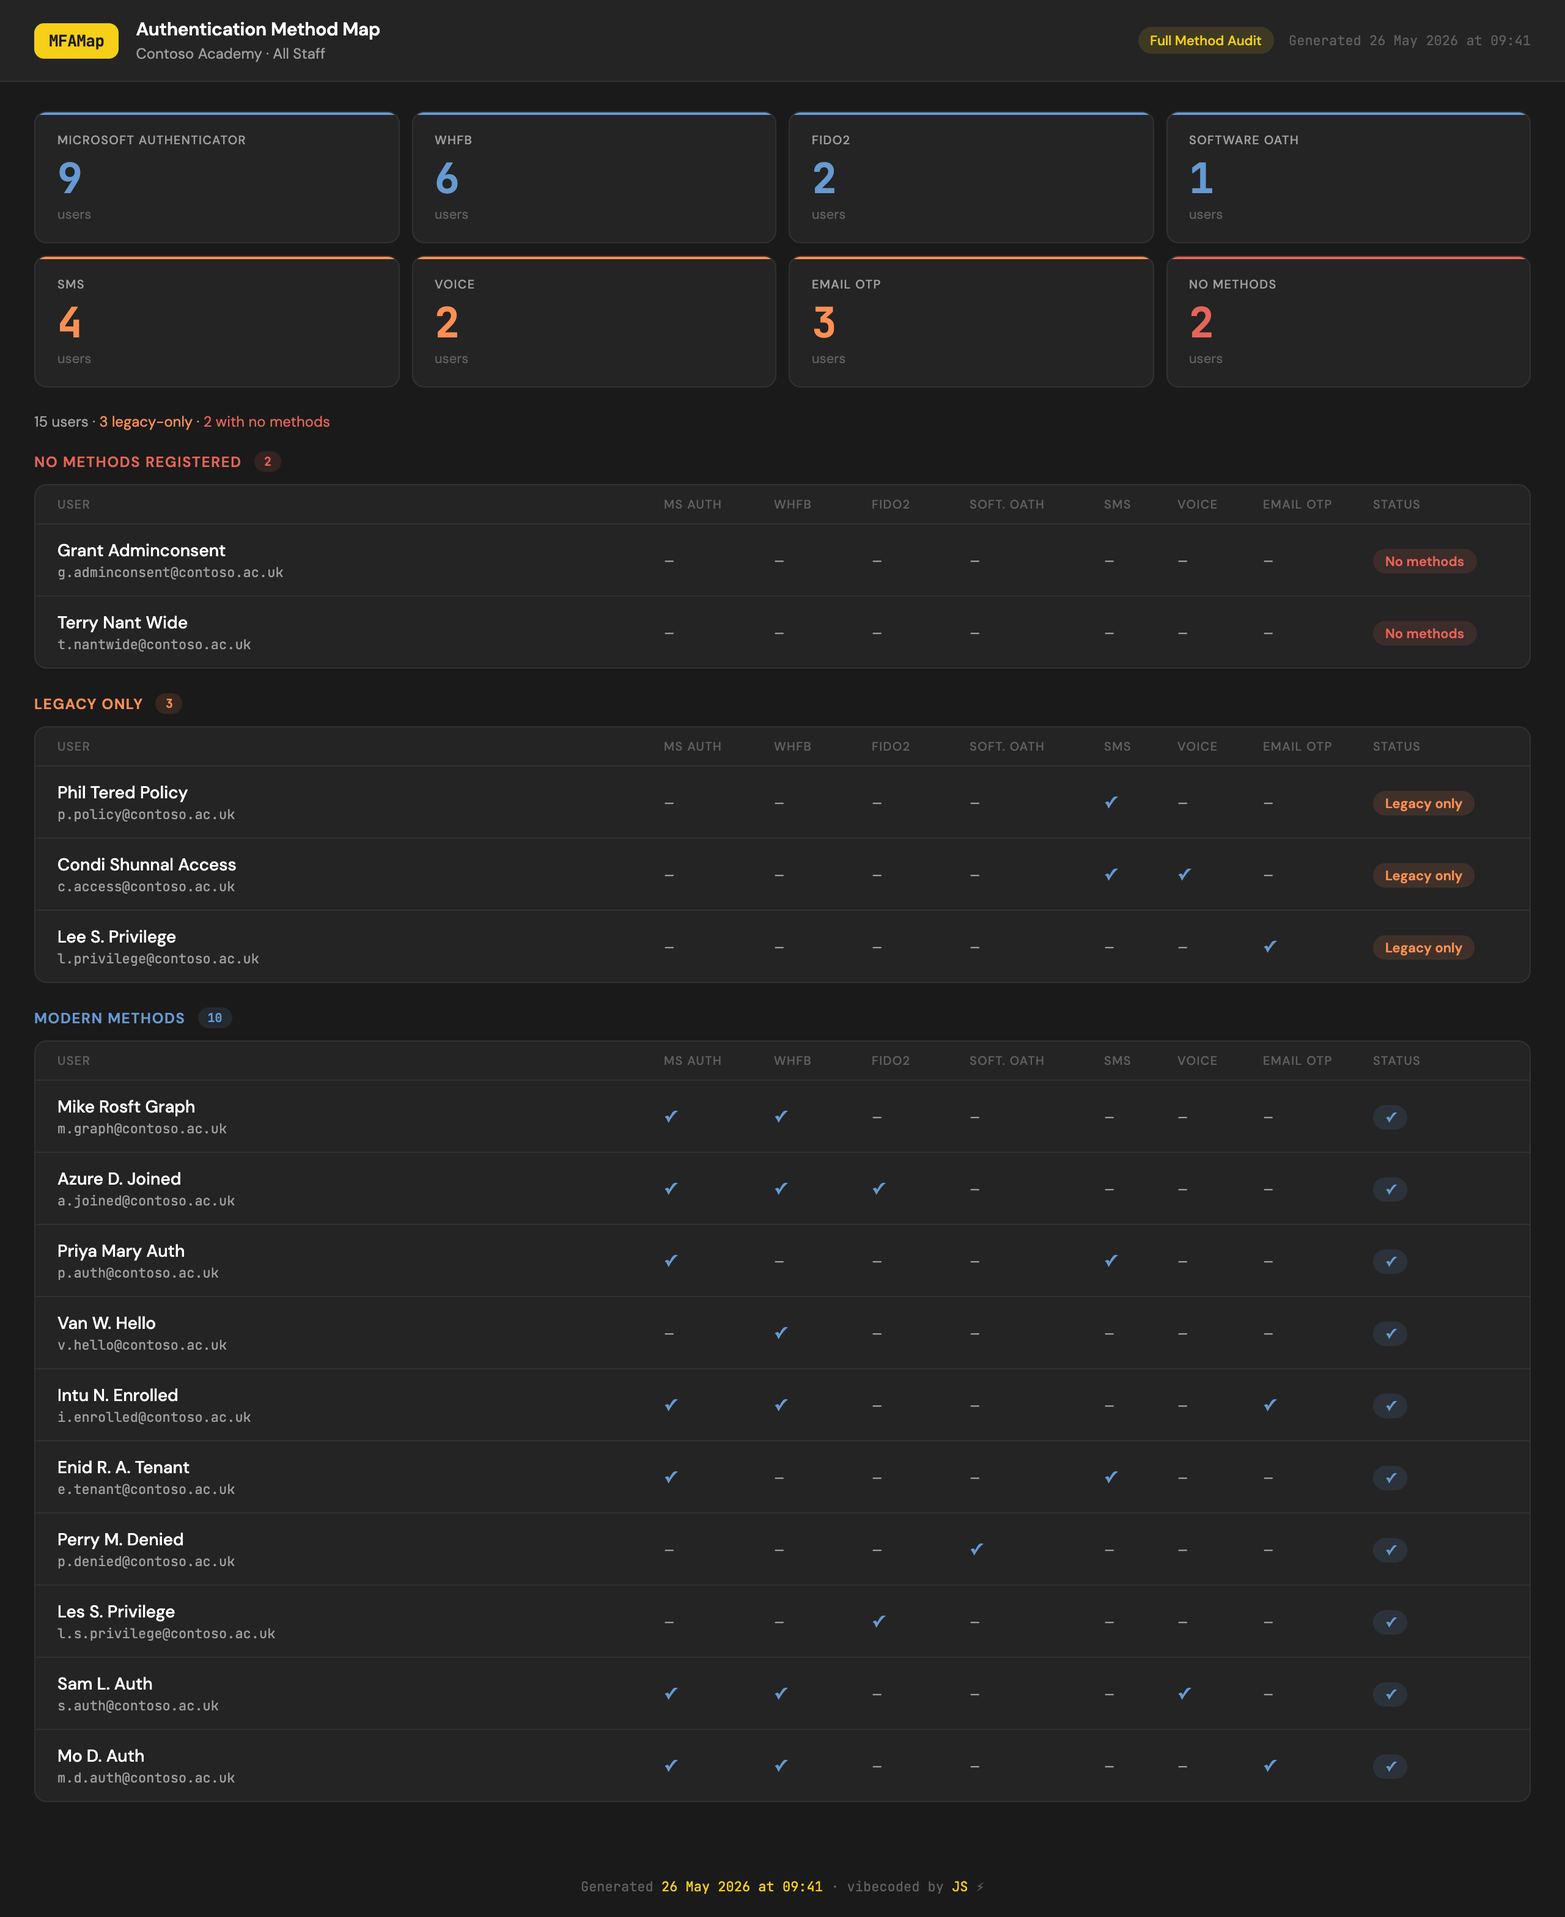
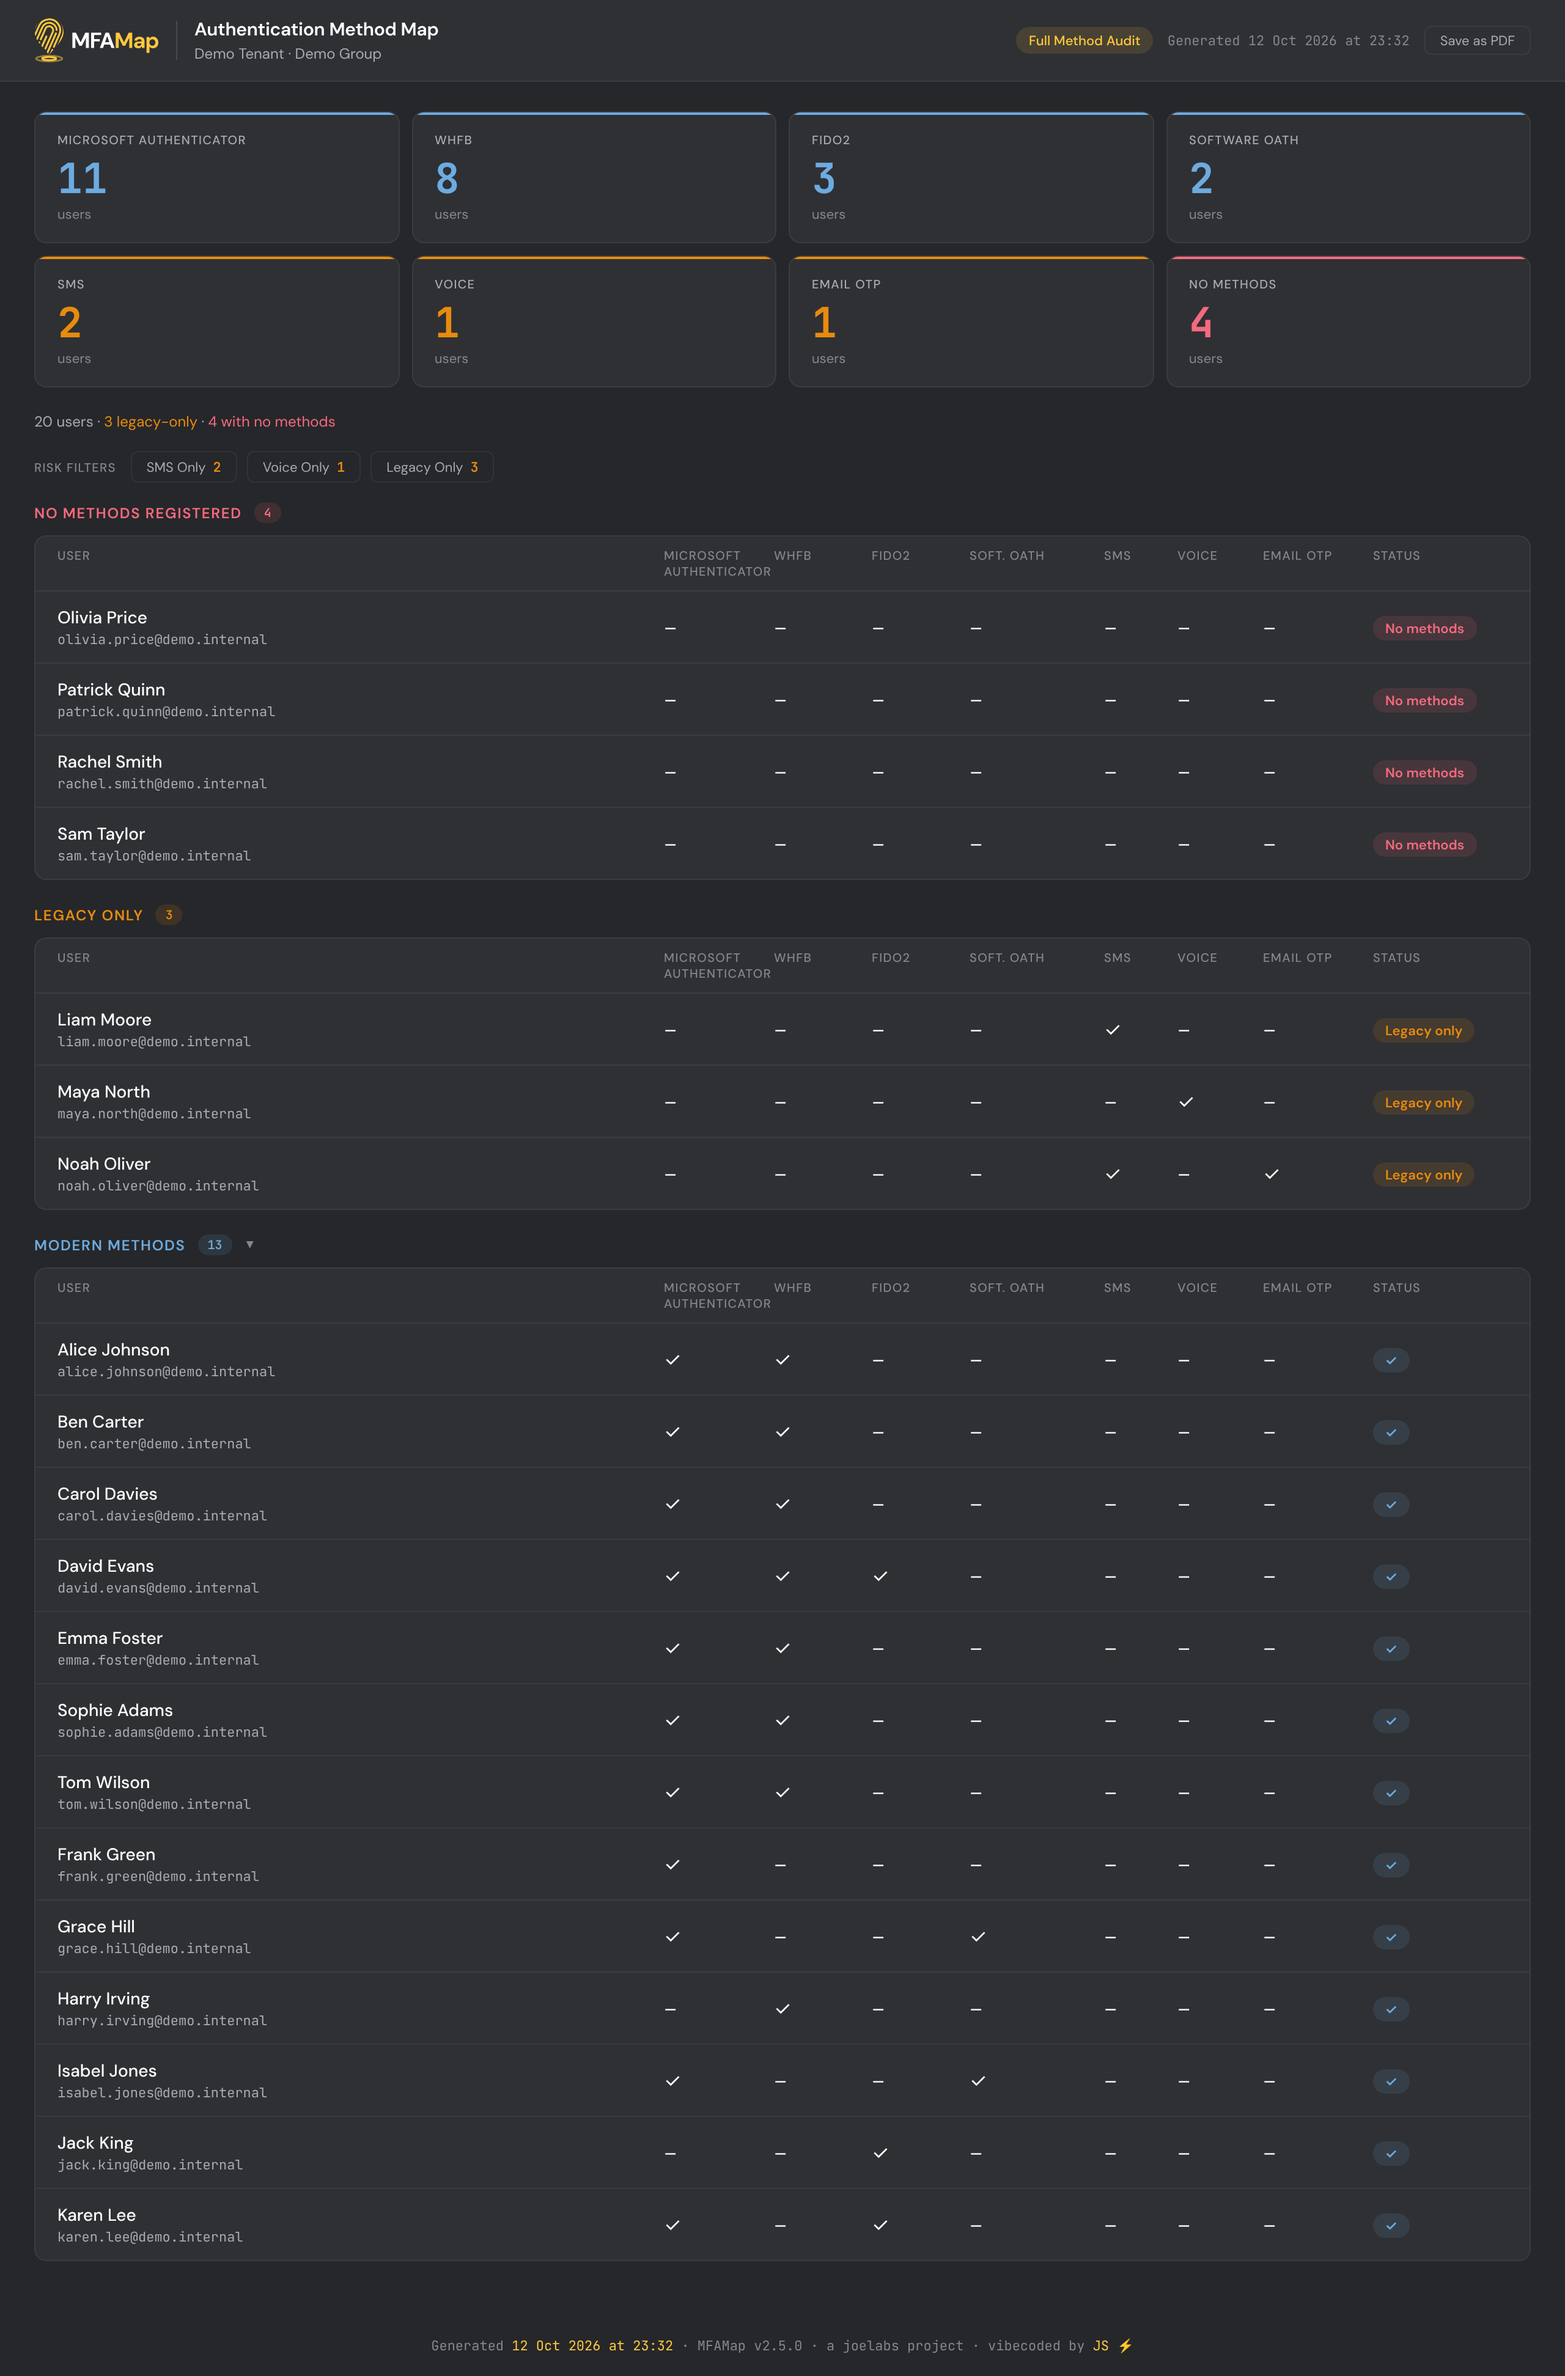
Rebrand MFAMap as a joelabs project (v2.5.0)
- Report and delta report use the joelabs palette (#26272A ground,
  #FFC83D accent) and the new MFAMap logo in the header
- Inline SVG favicon in both reports
- Footer: "MFAMap v2.5.0 · a joelabs project · vibecoded by JS"
- Coverage colour uses brand yellow; muted and dim text brightened
- Terminal splash in brand yellow on 24-bit colour terminals, with
  "a joelabs project" under the version
- README banner (dark/light), refreshed dashboard screenshot
- Brand assets and usage notes in assets/brand/
- CHANGELOG 2.5.0, CLAUDE.md brand notes

Claude-Session: https://claude.ai/code/session_01AezYoBgCPwqSqzULvStigX

Changed region(s): [[0.0, 0.0, 1.0, 1.0]]

diff --git a/assets/brand/README.md b/assets/brand/README.md
@@ -1,0 +1,37 @@
+# MFAMap brand
+
+MFAMap is a joelabs project. The logo is the joelabs fingerprint loop cut to a map pin, sending out a ping.
+
+| File | Use |
+|---|---|
+| `readme-banner-dark.png`, `readme-banner-light.png` | README header (picked by the reader's GitHub theme) |
+| `social-preview-1280x640.png` | GitHub repo social preview (Settings > General > Social preview) |
+| `mfamap-horizontal-dark.svg`, `mfamap-horizontal-light.svg` | Logo with "a joelabs project", for dark and light grounds |
+| `mfamap-icon.svg` | Icon on its grey tile |
+| `mfamap-icon-transparent.svg` | Yellow icon, transparent, for dark grounds only |
+| `header-logo.svg` | The report header logo (inlined in `code/MFAMap.ps1`) |
+| `favicon.svg` | The report's browser tab icon (inlined in `code/MFAMap.ps1`, base64) |
+
+## Colour
+
+| Token | Hex | Use |
+|---|---|---|
+| Brand grey | `#26272A` | Page ground |
+| Surface | `#2F3034` | Cards, tables, header |
+| Surface high | `#3A3B40` | Progress tracks, raised elements |
+| Brand yellow | `#FFC83D` | Logo, accents, coverage |
+| Text muted | `#A9AAB0` | Secondary text |
+| Text dim | `#85868D` | Labels, timestamps |
+| Enrolled | `#7CD591` | Complete, registered |
+| Partial | `#E88B0E` | Partial, legacy only |
+| Not registered | `#F56A7E` | Not registered, no methods, lapsed |
+| Modern | `#6DABDF` | Modern methods (full method audit) |
+
+Status colours always come with a label, and yellow is never a status.
+
+## Rules
+
+- On dark: yellow mark, "MFA" white, "Map" yellow. On light or yellow: everything in brand grey.
+- Never yellow on white or light grey (1.5:1, unreadable).
+- Use the compact logo (no "a joelabs project") under 64px tall, and put "a joelabs project" in the footer instead.
+- Don't redraw, recolour, stretch or add effects to the logo. The full brand guidelines live in the MFAMap brand pack.

diff --git a/README.md b/README.md
@@ -1,10 +1,15 @@
-# ⚡ MFAMap
+<h1>
+  <picture>
+    <source media="(prefers-color-scheme: dark)" srcset="assets/brand/readme-banner-dark.png">
+    <img src="assets/brand/readme-banner-light.png" alt="MFAMap, a joelabs project" width="880">
+  </picture>
+</h1>
 
 **Authentication method mapper for Microsoft Entra ID**
 
 MFAMap generates a self-contained HTML dashboard showing authentication method registration across a target Entra group. Run the script, pick a mode, save the file. Open it in any browser, share it with anyone — no server, no login, no dependencies.
 
-<img src="images/dashboard.png" alt="MFAMap dashboard preview" width="600">
+<img src="images/dashboard.png" alt="MFAMap full method audit report (demo data)" width="600">
 
 ---
 
@@ -183,5 +188,7 @@ All read-only. MFAMap cannot make any changes.
 ---
 
 ## 👏 Credits
+
+MFAMap is a joelabs project. Logo, colours and usage rules are in [`assets/brand`](assets/brand/README.md).
 
 vibecoded by JS ⚡

diff --git a/CHANGELOG.md b/CHANGELOG.md
@@ -2,6 +2,14 @@
 
 ---
 
+## [2.5.0] — 2026-10-12
+
+### Changes
+
+**joelabs branding** — MFAMap is now a joelabs project. Reports and delta reports use the joelabs palette (grey `#26272A` ground, yellow `#FFC83D` accent) and the new MFAMap logo in the header, with a matching browser tab icon. The footer reads "MFAMap v2.5.0 · a joelabs project". The status colours are retuned to sit with the brand yellow (green `#7CD591`, amber `#E88B0E`, red `#F56A7E`, blue `#6DABDF`) and spaced further apart, including for colour-blind readers. The coverage colour now uses the brand yellow, and secondary text is a little brighter for legibility. The terminal splash is drawn in the brand yellow on terminals that support 24-bit colour (console yellow otherwise) and shows "a joelabs project" under the version. Brand assets live in `assets/brand/`.
+
+---
+
 ## [2.4.0] — 2026-10-12
 
 ### New features
